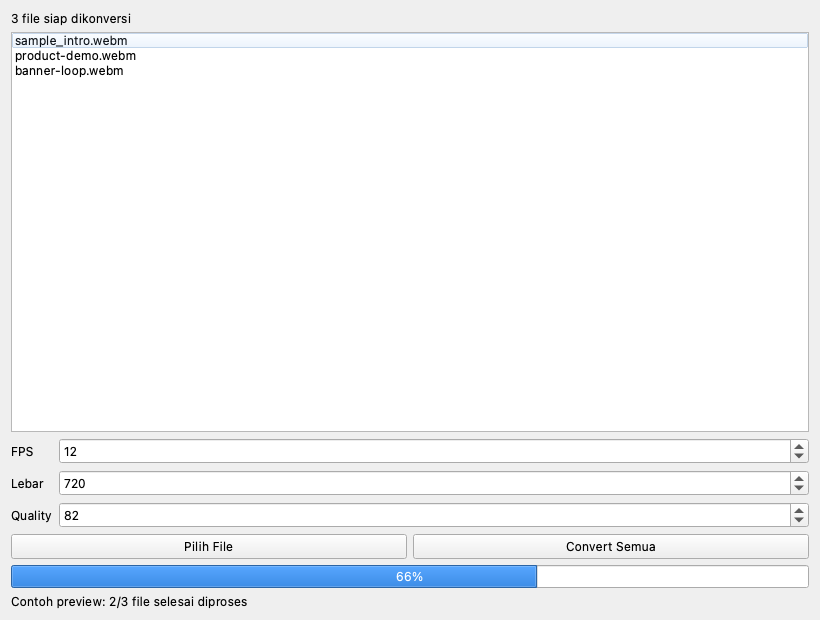
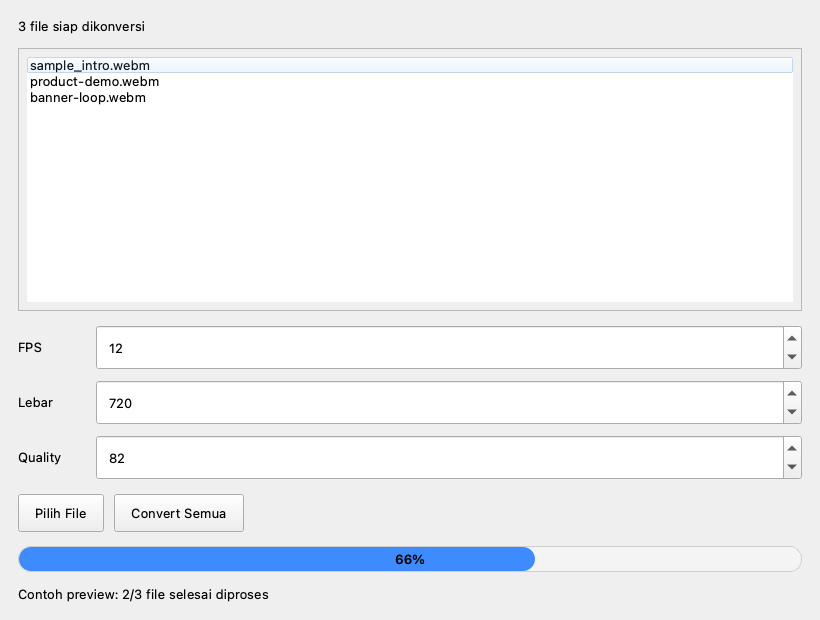
Fix macOS app runtime and Intel release support

diff --git a/webm2webp_gui.py b/webm2webp_gui.py
@@ -1,10 +1,12 @@
 import sys
 from pathlib import Path
 
+from PyQt6.QtCore import Qt
 from PyQt6.QtWidgets import (
     QApplication,
     QFileDialog,
-    QFormLayout,
+    QFrame,
+    QGridLayout,
     QHBoxLayout,
     QLabel,
     QListWidget,
@@ -22,8 +24,39 @@ class App(QWidget):
     def __init__(self):
         super().__init__()
         self.setWindowTitle("WebM -> WebP Converter")
-        self.setGeometry(200, 200, 520, 360)
+        self.setGeometry(200, 200, 640, 430)
         self.setAcceptDrops(True)
+        self.setStyleSheet(
+            """
+            QWidget {
+                font-size: 13px;
+            }
+            QListWidget {
+                min-height: 170px;
+                padding: 8px;
+            }
+            QPushButton {
+                min-height: 36px;
+                padding: 0 16px;
+            }
+            QSpinBox {
+                min-height: 34px;
+                padding: 0 8px;
+            }
+            QProgressBar {
+                min-height: 24px;
+                border: 1px solid #cfcfcf;
+                border-radius: 12px;
+                background: #f4f4f4;
+                text-align: center;
+                font-weight: 600;
+            }
+            QProgressBar::chunk {
+                border-radius: 12px;
+                background: #3d8bfd;
+            }
+            """
+        )
 
         self.input_files = []
 
@@ -55,19 +88,46 @@ class App(QWidget):
         self.button_select.clicked.connect(self.select_files)
         self.button_convert.clicked.connect(self.convert)
 
-        settings_layout = QFormLayout()
-        settings_layout.addRow("FPS", self.fps_input)
-        settings_layout.addRow("Lebar", self.scale_input)
-        settings_layout.addRow("Quality", self.quality_input)
+        settings_card = QFrame(self)
+        settings_card.setFrameShape(QFrame.Shape.NoFrame)
+
+        settings_layout = QGridLayout()
+        settings_layout.setContentsMargins(0, 0, 0, 0)
+        settings_layout.setHorizontalSpacing(14)
+        settings_layout.setVerticalSpacing(10)
+
+        self.fps_label = QLabel("FPS", self)
+        self.scale_label = QLabel("Lebar", self)
+        self.quality_label = QLabel("Quality", self)
+
+        for row, (label, widget) in enumerate(
+            [
+                (self.fps_label, self.fps_input),
+                (self.scale_label, self.scale_input),
+                (self.quality_label, self.quality_input),
+            ]
+        ):
+            label.setAlignment(Qt.AlignmentFlag.AlignLeft | Qt.AlignmentFlag.AlignVCenter)
+            label.setMinimumWidth(64)
+            settings_layout.addWidget(label, row, 0, alignment=Qt.AlignmentFlag.AlignLeft)
+            settings_layout.addWidget(widget, row, 1)
+
+        settings_layout.setColumnStretch(0, 0)
+        settings_layout.setColumnStretch(1, 1)
+        settings_card.setLayout(settings_layout)
 
         button_layout = QHBoxLayout()
+        button_layout.setSpacing(10)
         button_layout.addWidget(self.button_select)
         button_layout.addWidget(self.button_convert)
+        button_layout.addStretch(1)
 
         layout = QVBoxLayout()
+        layout.setContentsMargins(18, 18, 18, 18)
+        layout.setSpacing(14)
         layout.addWidget(self.label)
         layout.addWidget(self.file_list)
-        layout.addLayout(settings_layout)
+        layout.addWidget(settings_card)
         layout.addLayout(button_layout)
         layout.addWidget(self.progress)
         layout.addWidget(self.status)

diff --git a/webm2webp.py b/webm2webp.py
@@ -1,19 +1,75 @@
 import argparse
+import os
+import shutil
 import subprocess
+import sys
 import tempfile
 from pathlib import Path
+
+
+def _bundle_bin_dirs():
+    executable_path = Path(sys.executable).resolve()
+    candidates = []
+
+    # PyInstaller app bundle on macOS keeps resources under Contents/Resources.
+    candidates.append(executable_path.parent.parent / "Resources" / "bin")
+
+    meipass = getattr(sys, "_MEIPASS", None)
+    if meipass:
+        candidates.append(Path(meipass) / "bin")
+
+    return [path for path in candidates if path.exists()]
+
+
+def resolve_command(command_name):
+    env_key = f"WEBM2WEBP_{command_name.upper()}"
+    env_path = os.environ.get(env_key)
+    if env_path:
+        candidate = Path(env_path).expanduser()
+        if candidate.exists():
+            return str(candidate.resolve())
+
+    direct_match = shutil.which(command_name)
+    if direct_match:
+        return direct_match
+
+    for bin_dir in _bundle_bin_dirs():
+        candidate = bin_dir / command_name
+        if candidate.exists():
+            return str(candidate)
+
+    common_bin_dirs = [
+        Path("/opt/homebrew/bin"),
+        Path("/usr/local/bin"),
+        Path("/opt/local/bin"),
+        Path.home() / ".local" / "bin",
+    ]
+    for bin_dir in common_bin_dirs:
+        candidate = bin_dir / command_name
+        if candidate.exists():
+            return str(candidate)
+
+    searched_paths = [str(path) for path in _bundle_bin_dirs()]
+    searched_paths.extend(str(path) for path in common_bin_dirs)
+    raise RuntimeError(
+        f"'{command_name}' tidak ditemukan. Install tool ini lalu coba lagi. "
+        f"Lokasi yang dicek: PATH, {', '.join(searched_paths)}. "
+        f"Anda juga bisa set environment variable {env_key}."
+    )
 
 
 def webm_to_webp(input_file, output_file=None, fps=10, scale=800, quality=75):
     input_path = Path(input_file).expanduser().resolve()
     output_path = Path(output_file).expanduser().resolve() if output_file else input_path.with_suffix(".webp")
+    ffmpeg_bin = resolve_command("ffmpeg")
+    img2webp_bin = resolve_command("img2webp")
 
     with tempfile.TemporaryDirectory(prefix="webm2webp_") as temp_dir:
         frame_pattern = str(Path(temp_dir) / "frame_%04d.png")
 
         subprocess.run(
             [
-                "ffmpeg",
+                ffmpeg_bin,
                 "-y",
                 "-i",
                 str(input_path),
@@ -30,7 +86,7 @@ def webm_to_webp(input_file, output_file=None, fps=10, scale=800, quality=75):
 
         subprocess.run(
             [
-                "img2webp",
+                img2webp_bin,
                 "-loop",
                 "0",
                 "-q",

diff --git a/README.md b/README.md
@@ -9,7 +9,7 @@ Project ini mendukung:
 - drag & drop banyak file di GUI
 - pengaturan `FPS`, `Quality`, dan lebar output
 - build menjadi aplikasi macOS `.app`
-- workflow GitHub Release untuk artefak macOS
+- workflow GitHub Release untuk artefak macOS Intel dan Apple Silicon
 
 Riwayat perubahan versi tersedia di [CHANGELOG.md](CHANGELOG.md).
 Bagian `Unreleased` di changelog bisa dipakai untuk mencatat perubahan sebelum membuat tag release berikutnya.
@@ -106,4 +106,5 @@ Setelah itu workflow GitHub akan:
 
 - Output `.webp` akan dibuat di folder yang sama dengan file input.
 - Temporary frame disimpan di folder sementara agar aman untuk batch convert.
+- App akan mencoba mencari `ffmpeg` dan `img2webp` di `PATH`, `/usr/local/bin`, dan `/opt/homebrew/bin`. Ini penting saat app dibuka dari Finder di macOS.
 - Artefak build lebih aman disimpan di GitHub Releases daripada commit hasil build langsung ke repository.

diff --git a/RELEASE.md b/RELEASE.md
@@ -62,9 +62,9 @@ git push origin v1.0.2
 
 Setelah tag dipush:
 
-- workflow `Release macOS App` akan berjalan otomatis
+- workflow `Release macOS App` akan berjalan otomatis untuk dua arsitektur
 - GitHub akan membuat release baru
-- aset `WebM2WebP-macos.zip` akan diupload ke halaman Releases
+- aset `WebM2WebP-macos-x86_64.zip` dan `WebM2WebP-macos-arm64.zip` akan diupload ke halaman Releases
 
 ## 6. Verifikasi Release
 
@@ -78,7 +78,8 @@ gh release view v1.0.2 --repo DediMedia/webm2webp
 Yang perlu dicek:
 
 - status workflow `success`
-- asset `WebM2WebP-macos.zip` tersedia
+- asset `WebM2WebP-macos-x86_64.zip` tersedia untuk Intel Mac
+- asset `WebM2WebP-macos-arm64.zip` tersedia untuk Apple Silicon Mac
 - ukuran file terlihat wajar
 - release muncul di tab Releases
 
